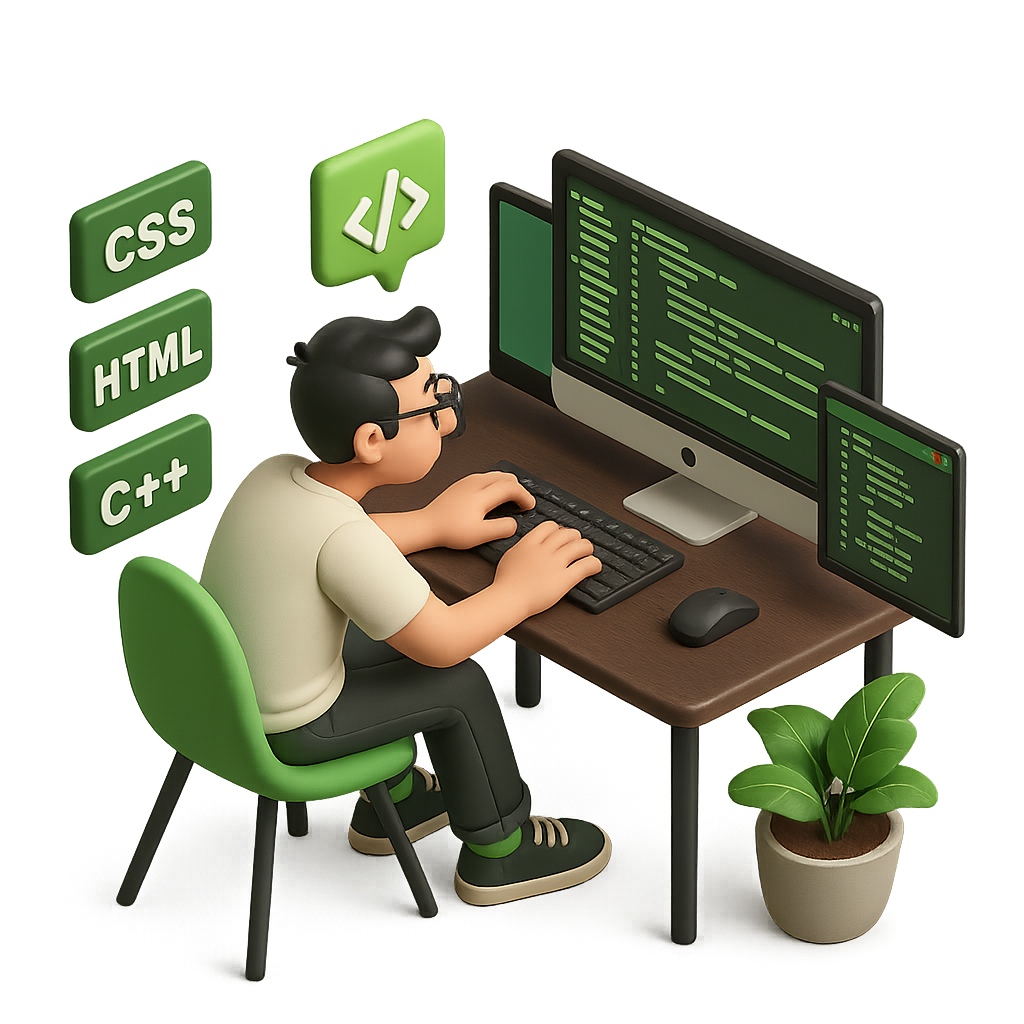
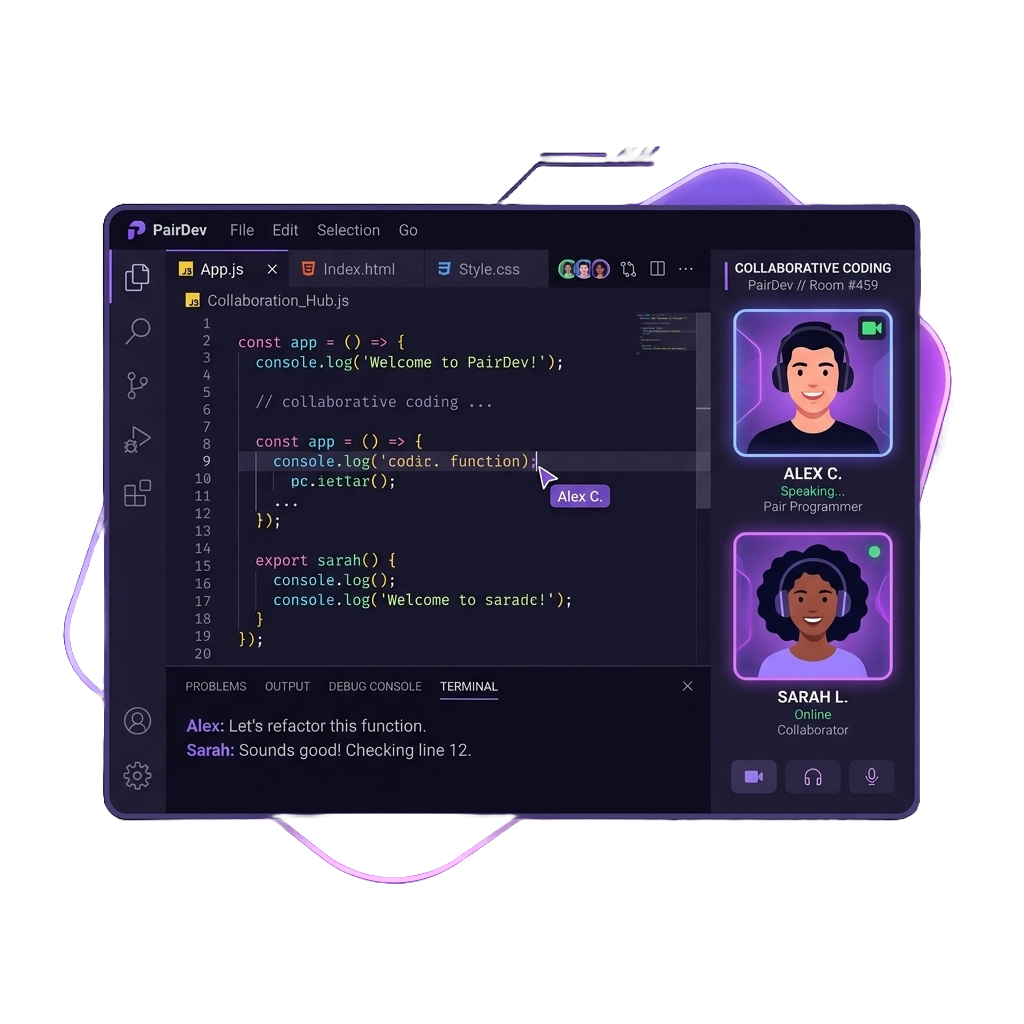
implement custom DaisyUI themes and a global theme toggle system with local storage persistence

diff --git a/frontend/src/components/ui/navbar-1.jsx b/frontend/src/components/ui/navbar-1.jsx
@@ -1,19 +1,53 @@
 "use client";
 
-import { useState } from "react";
+import { useState, useEffect } from "react";
 import { motion, AnimatePresence } from "motion/react";
-import { Menu, X, SparklesIcon } from "lucide-react";
+import { Menu, X, SparklesIcon, Sun, Moon } from "lucide-react";
 import { Link } from "react-router";
 
 const Navbar1 = () => {
   const [isOpen, setIsOpen] = useState(false);
+  const [theme, setTheme] = useState(() => {
+    if (typeof window !== "undefined") {
+      return (
+        document.documentElement.getAttribute("data-theme") ||
+        "talentforge-dark"
+      );
+    }
+    return "talentforge-dark";
+  });
+
+  useEffect(() => {
+    document.documentElement.setAttribute("data-theme", theme);
+    localStorage.setItem("theme", theme);
+  }, [theme]);
+
+  const toggleTheme = () => {
+    setTheme((prev) =>
+      prev === "talentforge-light" ? "talentforge-dark" : "talentforge-light",
+    );
+  };
+
+  const ThemeToggle = () => (
+    <button
+      onClick={toggleTheme}
+      className="flex h-10 w-10 items-center justify-center rounded-full border border-base-content/3 bg-base-100/30 text-base-content hover:bg-base-200 transition-colors cursor-pointer"
+      aria-label="Toggle Theme"
+    >
+      {theme === "talentforge-light" ? (
+        <Moon className="h-5 w-5 text-primary" />
+      ) : (
+        <Sun className="h-5 w-5 text-warning" />
+      )}
+    </button>
+  );
 
   const toggleMenu = () => setIsOpen(!isOpen);
 
   return (
     <header className="w-full">
       <div className="page-container py-4 md:py-6">
-        <div className="relative z-10 flex w-full items-center justify-between rounded-full border border-base-content/10 bg-base-100/90 px-6 py-3 shadow-lg backdrop-blur-sm">
+        <div className="relative z-10 flex w-full items-center justify-between rounded-full border border-base-content/3 bg-base-100/70 px-6 py-3 shadow-lg backdrop-blur-sm">
           <Link
             to="/"
             className="flex items-center gap-3 transition-transform duration-200 hover:scale-105"
@@ -34,20 +68,22 @@ const Navbar1 = () => {
             </div>
           </Link>
 
-          <motion.div
-            className="hidden md:block"
-            initial={{ opacity: 0, x: 20 }}
-            animate={{ opacity: 1, x: 0 }}
-            transition={{ duration: 0.3, delay: 0.2 }}
-            whileHover={{ scale: 1.05 }}
-          >
-            <Link
-              to="/sign-in"
-              className="inline-flex items-center justify-center rounded-full bg-primary px-5 py-2 text-sm font-medium text-primary-content transition-colors hover:bg-primary/90"
+          <div className="hidden md:flex items-center gap-4">
+            <ThemeToggle />
+            <motion.div
+              initial={{ opacity: 0, x: 20 }}
+              animate={{ opacity: 1, x: 0 }}
+              transition={{ duration: 0.3, delay: 0.2 }}
+              whileHover={{ scale: 1.05 }}
             >
-              Get Started
-            </Link>
-          </motion.div>
+              <Link
+                to="/sign-in"
+                className="inline-flex items-center justify-center rounded-full bg-primary px-5 py-2 text-sm font-medium text-primary-content transition-colors hover:bg-primary/90"
+              >
+                Get Started
+              </Link>
+            </motion.div>
+          </div>
 
           <motion.button
             className="flex items-center md:hidden"
@@ -81,6 +117,12 @@ const Navbar1 = () => {
               <X className="h-6 w-6 text-base-content" />
             </motion.button>
             <div className="flex flex-col space-y-6">
+              <div className="flex items-center justify-between border-b border-base-content/3 pb-4">
+                <span className="text-base font-semibold text-base-content">
+                  Theme
+                </span>
+                <ThemeToggle />
+              </div>
               <motion.div
                 initial={{ opacity: 0, y: 20 }}
                 animate={{ opacity: 1, y: 0 }}

diff --git a/frontend/src/index.css b/frontend/src/index.css
@@ -1,6 +1,31 @@
 @import "tailwindcss";
+
 @plugin "daisyui" {
-  themes: all;
+  themes: talentforge-light --default, talentforge-dark --prefersdark;
+}
+
+@plugin "daisyui/theme" {
+  name: "talentforge-light";
+  --color-primary: #8b5cf6;
+  --color-secondary: #a78bfa;
+  --color-accent: #c084fc;
+  --color-neutral: #f3f4f6;
+  --color-base-100: #fafafa;
+  --color-base-200: #f5f3ff;
+  --color-base-300: #e9e3f8;
+  --color-base-content: #18181b;
+}
+
+@plugin "daisyui/theme" {
+  name: "talentforge-dark";
+  --color-primary: #8b5cf6;
+  --color-secondary: #a78bfa;
+  --color-accent: #c084fc;
+  --color-neutral: #1e1b4b;
+  --color-base-100: #07020d;
+  --color-base-200: #120721;
+  --color-base-300: #220f3a;
+  --color-base-content: #f4f4f5;
 }
 
 @layer components {

diff --git a/frontend/src/components/ui/hero-section.jsx b/frontend/src/components/ui/hero-section.jsx
@@ -48,14 +48,7 @@ const floatingVariants = {
   },
 };
 
-const HeroSection = ({
-  title,
-  subtitle,
-  actions,
-  stats,
-  image,
-  className,
-}) => {
+const HeroSection = ({ title, subtitle, actions, stats, image, className }) => {
   return (
     <section className={cn("section-y w-full overflow-hidden", className)}>
       <div className="page-container grid grid-cols-1 items-center gap-12 lg:grid-cols-2 lg:gap-16">
@@ -111,7 +104,7 @@ const HeroSection = ({
           >
             {stats.map((stat, index) => (
               <div key={index} className="flex items-center gap-3">
-                <div className="flex h-10 w-10 items-center justify-center rounded-full bg-base-100 border border-base-content/10">
+                <div className="flex h-10 w-10 items-center justify-center rounded-full border border-base-content/3 bg-base-100/70">
                   {stat.icon}
                 </div>
                 <div>
@@ -145,14 +138,11 @@ const HeroSection = ({
             style={{ transitionDelay: "0.5s" }}
           />
 
-          <motion.div
-            className="relative w-full"
-            variants={imageVariants}
-          >
+          <motion.div className="relative w-full" variants={imageVariants}>
             <img
               src={image}
               alt="Talent Forge Hero"
-              className="h-auto w-full"
+              className="h-auto w-full opacity-80"
             />
           </motion.div>
         </motion.div>

diff --git a/frontend/index.html b/frontend/index.html
@@ -1,10 +1,18 @@
 <!doctype html>
-<html lang="en" data-theme="forest">
+<html lang="en">
   <head>
     <meta charset="UTF-8" />
     <link rel="icon" type="image/svg+xml" href="/vite.svg" />
     <meta name="viewport" content="width=device-width, initial-scale=1.0" />
     <title>Talent Forge</title>
+    <script>
+      (function() {
+        const savedTheme = localStorage.getItem("theme");
+        const systemTheme = window.matchMedia("(prefers-color-scheme: dark)").matches ? "talentforge-dark" : "talentforge-light";
+        const theme = savedTheme || systemTheme;
+        document.documentElement.setAttribute("data-theme", theme);
+      })();
+    </script>
   </head>
   <body>
     <div id="root"></div>

diff --git a/frontend/src/components/ui/bento-grid.jsx b/frontend/src/components/ui/bento-grid.jsx
@@ -25,7 +25,7 @@ const BentoGrid = () => {
 
       <div className="grid auto-rows-max grid-cols-1 gap-4 md:grid-cols-3 lg:grid-cols-4">
         {/* Feature 1 - Large */}
-        <BentoItem className="col-span-1 flex flex-col justify-between rounded-2xl border border-base-content/10 bg-base-100 p-8 shadow-lg md:col-span-2 lg:col-span-2 lg:row-span-2">
+        <BentoItem className="col-span-1 flex flex-col justify-between rounded-2xl border border-base-content/3 bg-base-100/70 p-8 shadow-lg md:col-span-2 lg:col-span-2 lg:row-span-2">
           <div>
             <div className="size-16 bg-primary/10 rounded-2xl flex items-center justify-center mb-4">
               <VideoIcon className="size-8 text-primary" />
@@ -41,7 +41,7 @@ const BentoGrid = () => {
         </BentoItem>
 
         {/* Feature 2 */}
-        <BentoItem className="col-span-1 flex flex-col justify-between rounded-2xl border border-base-content/10 bg-base-100 p-6 shadow-lg md:col-span-1 lg:col-span-1">
+        <BentoItem className="col-span-1 flex flex-col justify-between rounded-2xl border border-base-content/3 bg-base-100/70 p-6 shadow-lg md:col-span-1 lg:col-span-1">
           <div>
             <div className="size-12 bg-secondary/10 rounded-xl flex items-center justify-center mb-3">
               <Code2Icon className="size-6 text-secondary" />
@@ -57,7 +57,7 @@ const BentoGrid = () => {
         </BentoItem>
 
         {/* Feature 3 */}
-        <BentoItem className="col-span-1 flex flex-col justify-between rounded-2xl border border-base-content/10 bg-base-100 p-6 shadow-lg md:col-span-1 lg:col-span-1">
+        <BentoItem className="col-span-1 flex flex-col justify-between rounded-2xl border border-base-content/3 bg-base-100/70 p-6 shadow-lg md:col-span-1 lg:col-span-1">
           <div>
             <div className="size-12 bg-accent/10 rounded-xl flex items-center justify-center mb-3">
               <UsersIcon className="size-6 text-accent" />
@@ -73,7 +73,7 @@ const BentoGrid = () => {
         </BentoItem>
 
         {/* Feature 4 */}
-        <BentoItem className="col-span-1 flex flex-col justify-between rounded-2xl border border-base-content/10 bg-base-100 p-6 shadow-lg md:col-span-1 lg:col-span-1">
+        <BentoItem className="col-span-1 flex flex-col justify-between rounded-2xl border border-base-content/3 bg-base-100/70 p-6 shadow-lg md:col-span-1 lg:col-span-1">
           <div>
             <div className="size-12 bg-secondary/10 rounded-xl flex items-center justify-center mb-3">
               <CheckIcon className="size-6 text-secondary" />
@@ -88,7 +88,7 @@ const BentoGrid = () => {
         </BentoItem>
 
         {/* Feature 5 */}
-        <BentoItem className="col-span-1 flex flex-col justify-between rounded-2xl border border-base-content/10 bg-base-100 p-6 shadow-lg md:col-span-1 lg:col-span-1">
+        <BentoItem className="col-span-1 flex flex-col justify-between rounded-2xl border border-base-content/3 bg-base-100/70 p-6 shadow-lg md:col-span-1 lg:col-span-1">
           <div>
             <div className="size-12 bg-primary/10 rounded-xl flex items-center justify-center mb-3">
               <ZapIcon className="size-6 text-primary" />

diff --git a/frontend/src/components/ui/button.jsx b/frontend/src/components/ui/button.jsx
@@ -9,12 +9,10 @@ const buttonVariants = cva(
     variants: {
       variant: {
         default: "bg-primary text-primary-content hover:bg-primary/90",
-        destructive:
-          "bg-error text-error-content hover:bg-error/90",
+        destructive: "bg-error text-error-content hover:bg-error/90",
         outline:
-          "border border-base-content/20 bg-base-100 text-base-content hover:bg-base-200",
-        secondary:
-          "bg-secondary text-secondary-content hover:bg-secondary/80",
+          "border border-base-content/3 bg-base-100/70 text-base-content hover:bg-base-200",
+        secondary: "bg-secondary text-secondary-content hover:bg-secondary/80",
         ghost: "text-base-content hover:bg-base-200",
         link: "text-primary underline-offset-4 hover:underline",
       },

diff --git a/frontend/src/pages/HomePage.jsx b/frontend/src/pages/HomePage.jsx
@@ -67,7 +67,7 @@ function HomePage() {
       ];
 
   return (
-    <div className="min-h-screen bg-linear-to-br from-base-100 via-base-200 to-base-300 text-base-content">
+    <div className="min-h-screen bg-linear-to-r from-base-100 via-base-100/50 to-base-200 text-base-content">
       <Navbar1 />
 
       <main>

diff --git a/frontend/src/pages/SignInPage.jsx b/frontend/src/pages/SignInPage.jsx
@@ -2,7 +2,7 @@ import { SignIn } from "@clerk/clerk-react";
 
 export default function SignInPage() {
   return (
-    <div className="min-h-screen flex items-center justify-center bg-linear-to-br from-base-100 via-base-200 to-base-300 relative overflow-hidden px-4">
+    <div className="min-h-screen flex items-center justify-center bg-linear-to-r from-base-100 via-base-200 to-base-300 relative overflow-hidden px-4">
       {/* Decorative aurora shapes */}
       <div className="absolute top-[-10%] left-[-10%] h-[50vw] w-[50vw] rounded-full bg-primary/10 blur-3xl animate-pulse" />
       <div className="absolute bottom-[-10%] right-[-10%] h-[50vw] w-[50vw] rounded-full bg-secondary/10 blur-3xl animate-pulse" style={{ animationDelay: "1s" }} />

diff --git a/frontend/src/pages/SignUpPage.jsx b/frontend/src/pages/SignUpPage.jsx
@@ -2,7 +2,7 @@ import { SignUp } from "@clerk/clerk-react";
 
 export default function SignUpPage() {
   return (
-    <div className="min-h-screen flex items-center justify-center bg-linear-to-br from-base-100 via-base-200 to-base-300 relative overflow-hidden px-4">
+    <div className="min-h-screen flex items-center justify-center bg-linear-to-r from-base-100 via-base-200 to-base-300 relative overflow-hidden px-4">
       {/* Decorative aurora shapes */}
       <div className="absolute top-[-10%] left-[-10%] h-[50vw] w-[50vw] rounded-full bg-primary/10 blur-3xl animate-pulse" />
       <div className="absolute bottom-[-10%] right-[-10%] h-[50vw] w-[50vw] rounded-full bg-secondary/10 blur-3xl animate-pulse" style={{ animationDelay: "1s" }} />